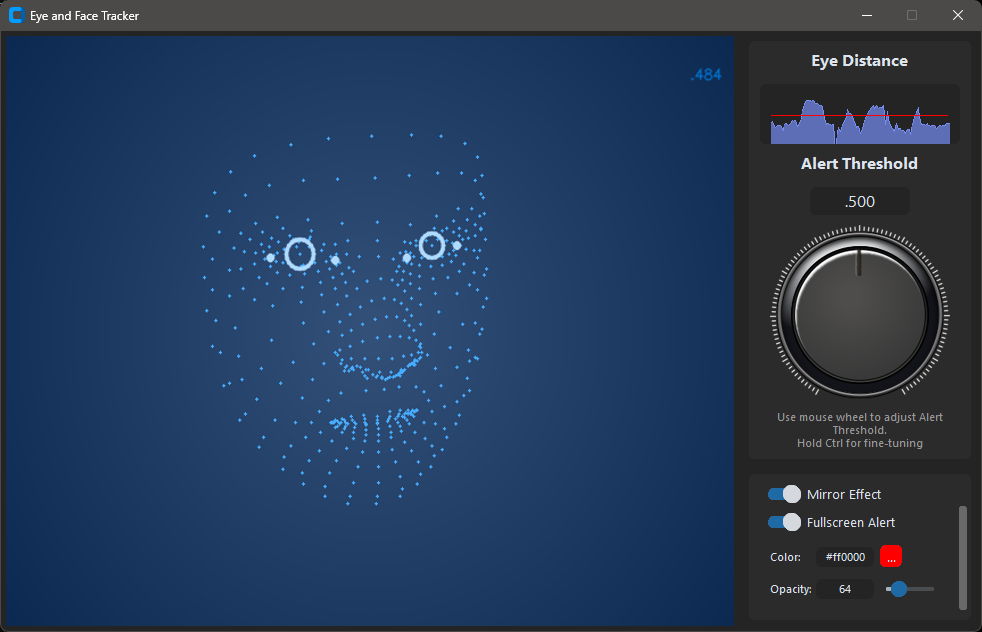
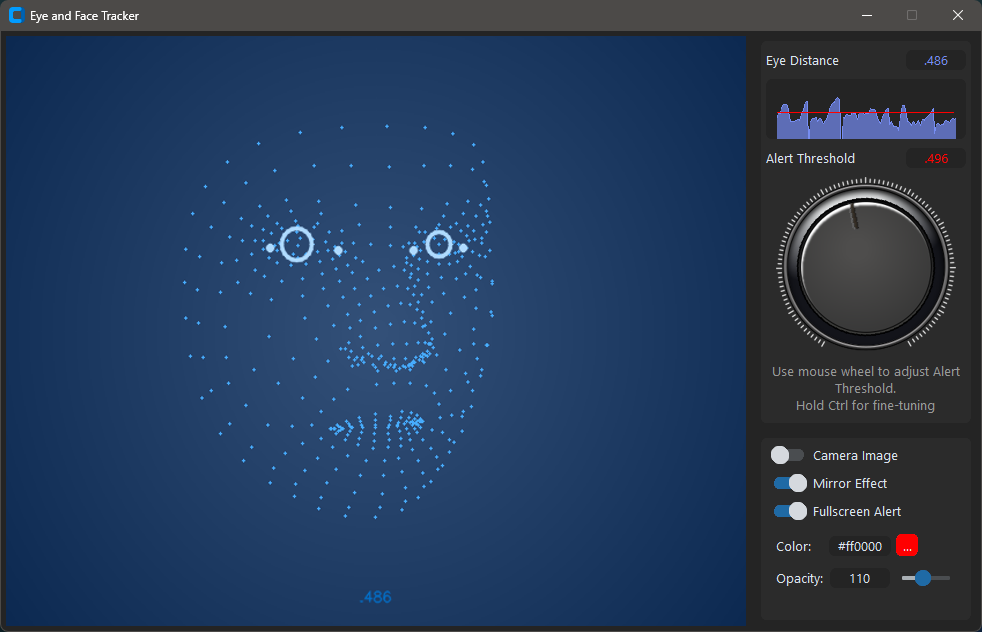
Work on UI

diff --git a/widgets/imageknobex.py b/widgets/imageknobex.py
@@ -8,10 +8,13 @@ class ImageKnobEx(ImageKnob):
         self.scroll_steps_precise = scroll_steps_precise
         super().__init__(*args, **kwargs)
         
+    def set(self, value):
+        """Override set method to ensure value stays within bounds"""
+        value = max(self.start, min(self.max, value))
+        return super().set(value)
+        
     def scroll_command(self, event):
-        """
-        Overridden function
-        """
+        """Handle mouse wheel events"""
         if type(event) is int:
             event_delta = event
             ctrl_pressed = False
@@ -21,18 +24,7 @@ class ImageKnobEx(ImageKnob):
             
         # Set step based on Ctrl press
         current_step = self.scroll_steps_precise if ctrl_pressed else self.scroll_steps
-            
-        if event_delta > 0:        
-            if self.value < self.max:
-                self.set(self.value + current_step)
-            elif self.value == self.max:
-                self.set(self.max)
-            else:
-                self.set(self.value - current_step)
-        else:
-            if self.value > self.start:
-                self.set(self.value - current_step)
-            elif self.value == self.start:
-                self.set(self.start)
-            else:
-                self.set(self.value + current_step)
+        
+        # Calculate new value
+        delta = current_step if event_delta > 0 else -current_step
+        self.set(self.value + delta)

diff --git a/image_processor.py b/image_processor.py
@@ -340,7 +340,7 @@ class ImageProcessor:
         cv.putText(
             img=frame, 
             text=screen_text, 
-            org=(frame.shape[1] - screen_text_size[0] - 10, 35), 
+            org=((frame.shape[1] - screen_text_size[0]) // 2, frame.shape[0] - 20), 
             fontFace=cv.FONT_HERSHEY_SIMPLEX, 
             fontScale=0.4, 
             color=screen_text_color, 
